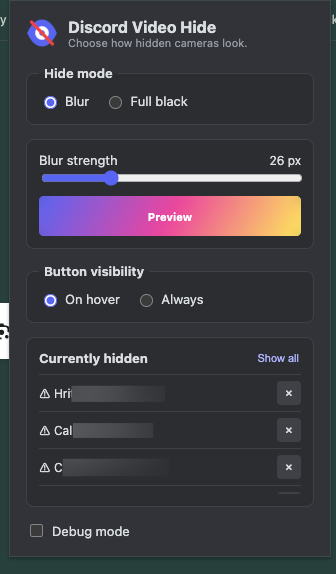
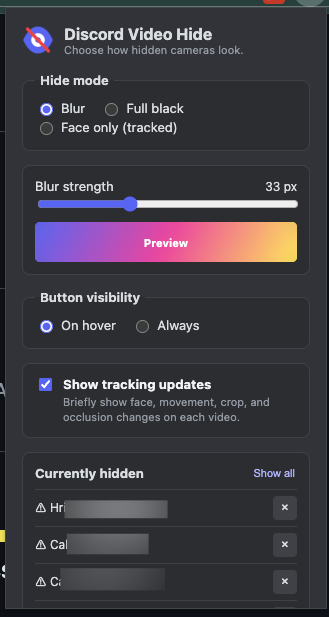
Add extension tracking diagrams

diff --git a/README.md b/README.md
@@ -32,6 +32,10 @@ Adaptive crop settings are stored per participant. The crop becomes wider and th
 
 The signed-in user's own camera is excluded from face zoom automatically, so face-only tracking applies only to other participants.
 
+## How it works
+
+![Discord Video Hide tracking flow](screenshots/tracking-flow.png)
+
 The extension works on Discord Web, including the regular, PTB, and Canary sites. It only changes what you see locally; it does not stop the video stream or save bandwidth. Settings are stored locally in Chrome.
 
 ## Limitations
